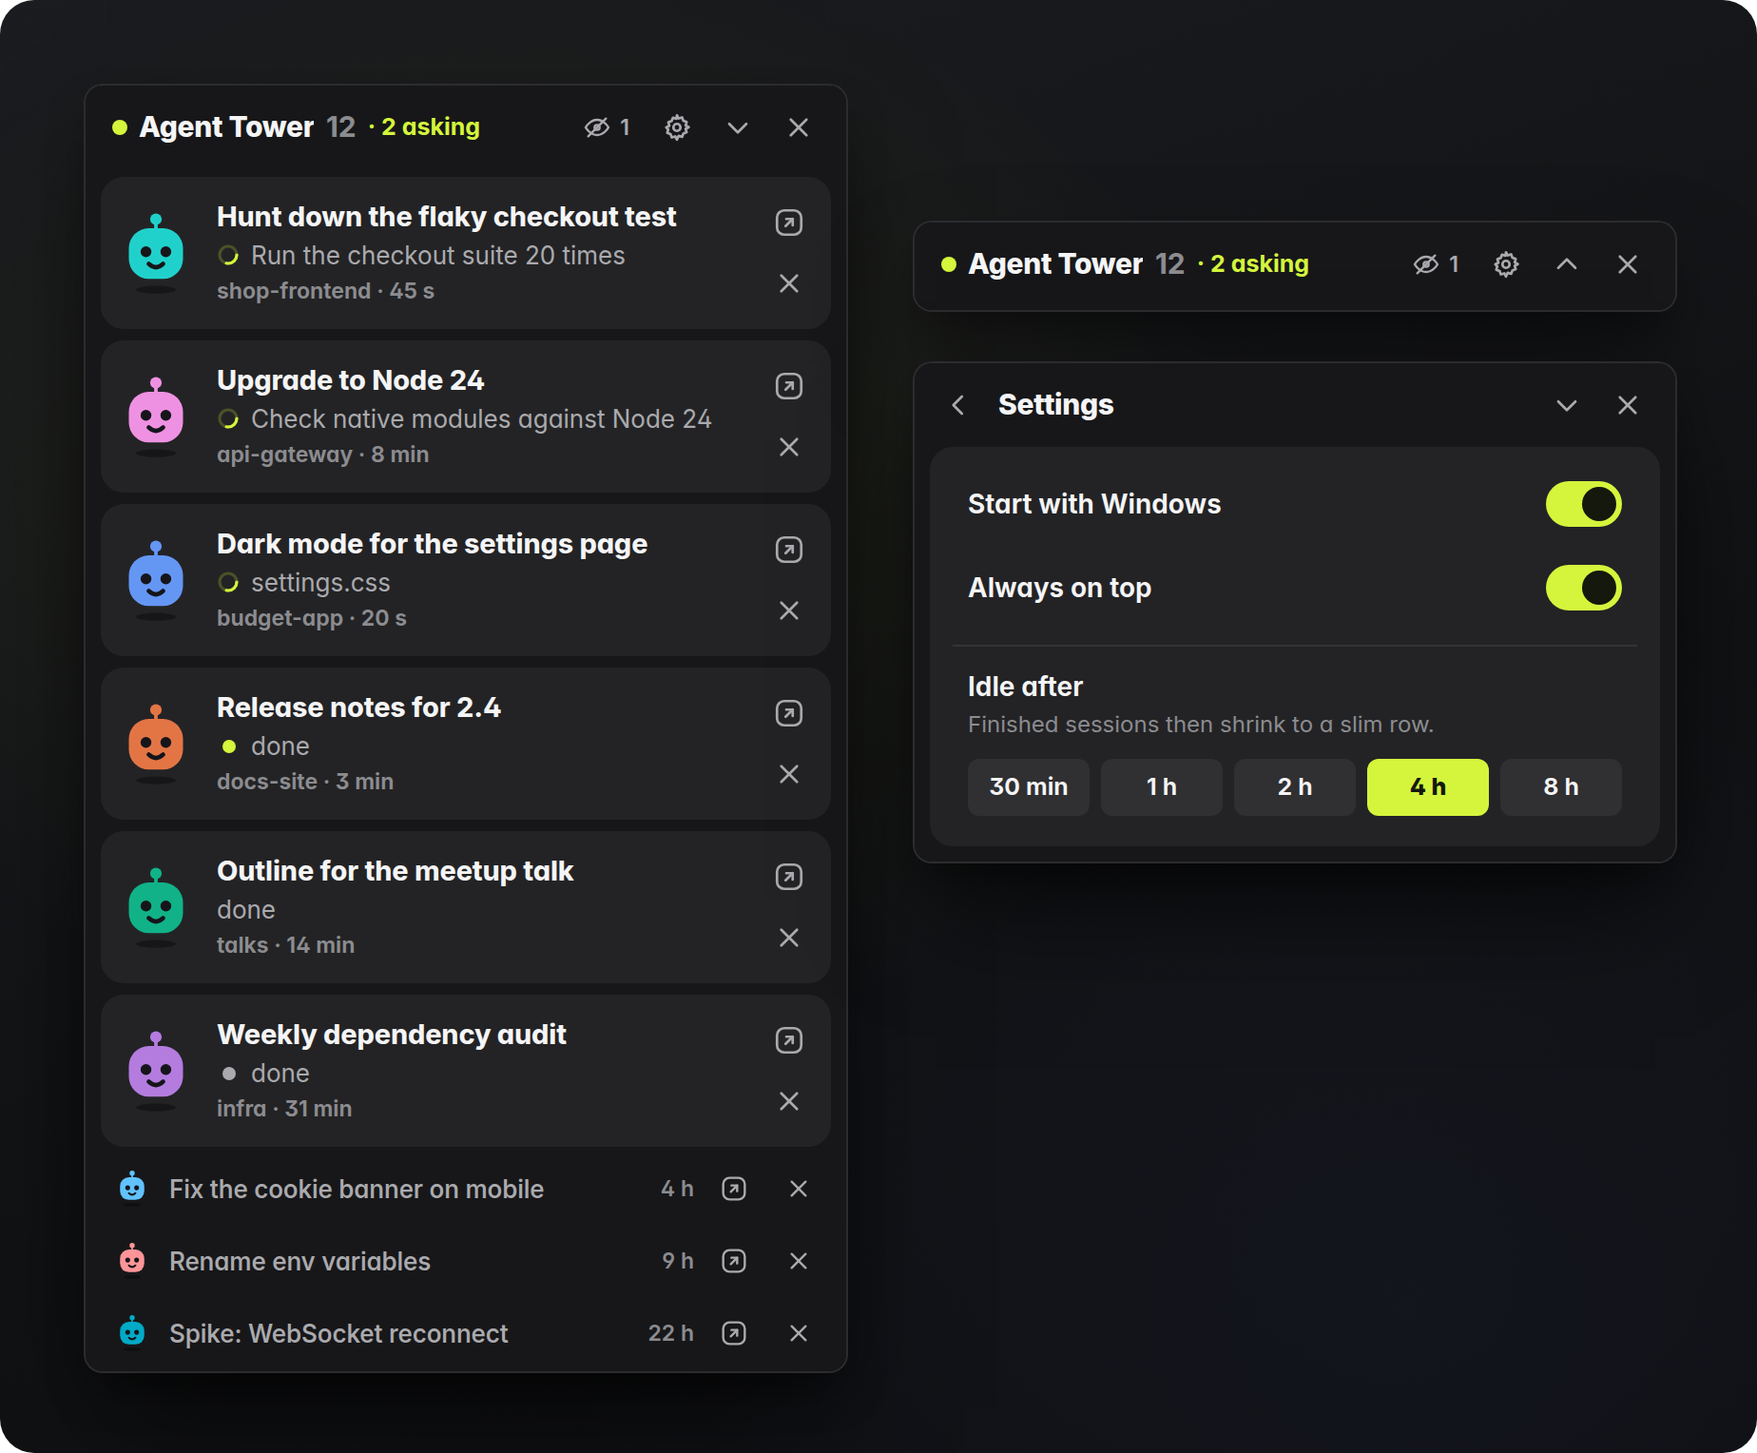
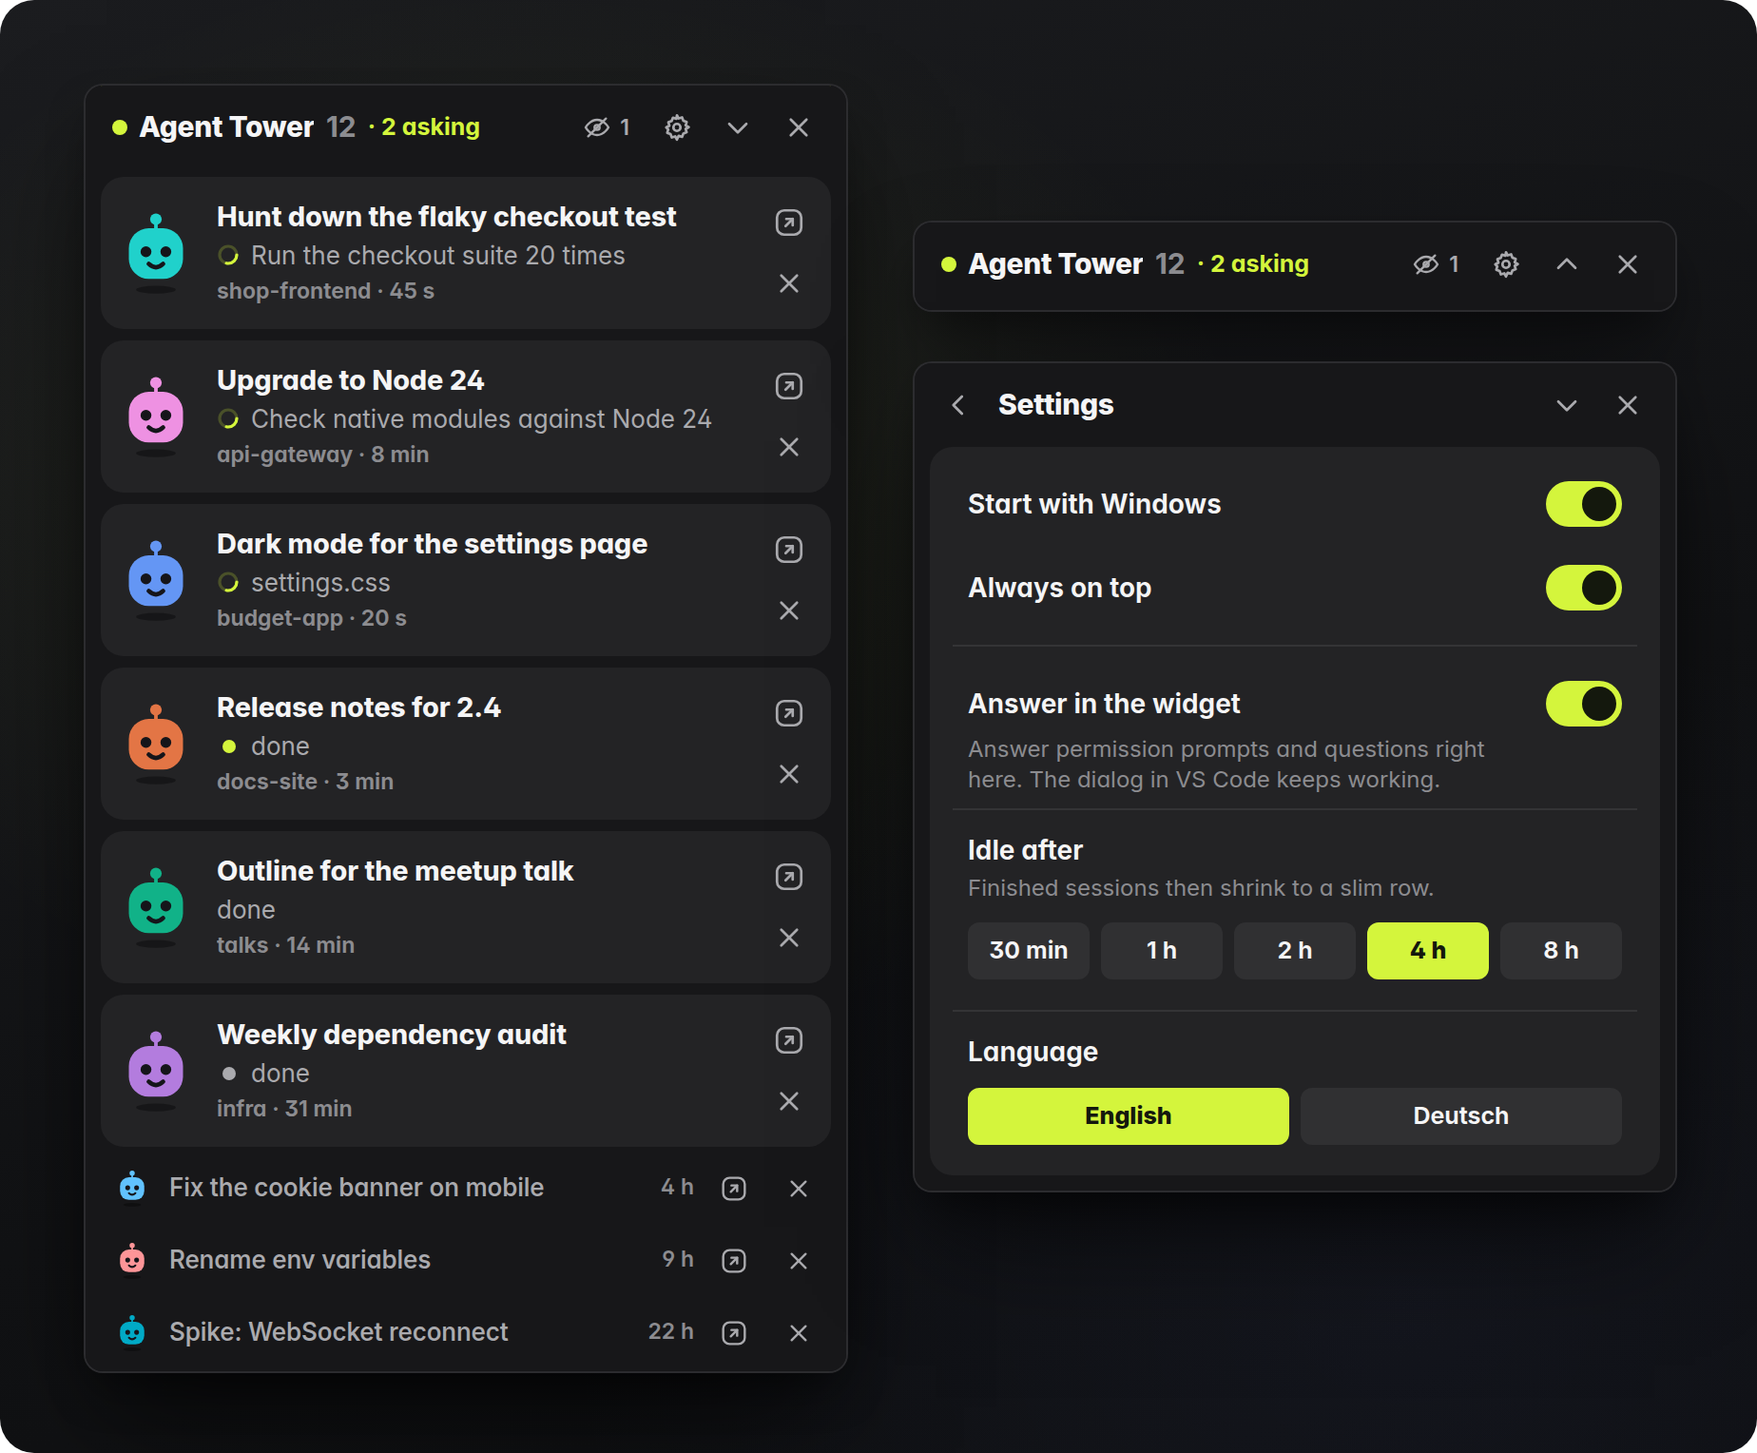
docs: README for answering in the widget, with new screenshots
The README now walks through the widget as it is used today: see who asks, answer a permission prompt or a question on the card, or jump to the session when it needs more than a yes. Installing the hook is part of the install steps, the requirements name the Claude Code version it was tested with, and the paths table lists the hook entry itself. The screenshots show the answer buttons with a picked option and the settings with the new switch; the demo fixture holds the made-up requests they need.

diff --git a/README.md b/README.md
@@ -1,8 +1,8 @@
 # Agent Tower
 
-A Claude Code session that waits for your answer does nothing until you look. Agent Tower keeps those sessions in view. It is a small window in the corner of your Windows desktop that lists every running session, puts the ones that need you on top and opens the right VS Code tab with one click. With its hook installed you can also answer a permission prompt or a question right in that window.
+A Claude Code session that waits for your answer does nothing until you look. Agent Tower keeps those sessions in view. It is a small window in the corner of your Windows desktop that lists every running session and puts the ones that need you on top. From there you answer a permission prompt or a question on the spot, or open the right VS Code tab with one click.
 
-![Agent Tower: two sessions asking for you at the top of the list, one waiting for permission to push and one with a question about a CSV export; next to it the detail view of a session that runs a test suite](docs/img/hero.png)
+![Agent Tower: two sessions asking for you at the top of the list, one waiting for permission to push with Allow and Deny under the command, one with a question about a CSV export whose second option is picked; next to it the detail view of a session that runs a test suite](docs/img/hero.png)
 
 *The screenshots show made-up demo sessions.*
 
@@ -16,21 +16,21 @@ Meanwhile those agents sit idle, and the work they would do next waits for a sin
 
 Sessions that wait for a permission, an answer or a plan approval get a lime frame and move to the top. The header counts them ("2 asking") and keeps counting when you fold the window down to that one line. A permission prompt raised by a subagent shows up on its parent's row, because that is where you answer it.
 
-The card tells you what the session wants before you switch: the command it wants to run, or the question with its options. Often that is enough to know whether it takes two seconds or real thought. A click on the row opens the session's latest steps and the last terminal command with its output, and the coloured faces at the top switch between sessions.
+The card shows what the session wants: the full command it is about to run, or the question with its options. Allow and Deny sit right under the command; a question takes your pick and a click on Send. The dialog in VS Code stays open next to it, and whichever of the two you use first settles the request. This needs the answer hook, which you add once with a script (see "Answering from the widget" below). Without it the card shows the request and leaves the answer to VS Code.
 
-The arrow takes you there. For a session in VS Code it brings that window and tab to the front; a session in the Claude desktop app opens in the app. When the target is unclear, for example because no VS Code window shows the session's folder, the row says so instead of guessing.
+Some requests need more than a yes or a no, and for those the arrow takes you to the session. For a session in VS Code it brings that window and tab to the front; a session in the Claude desktop app opens in the app. When the target is unclear, for example because no VS Code window shows the session's folder, the row says so instead of guessing.
 
-Once the answer hook is installed, the card of a VS Code session in WSL takes the answer as well: Allow and Deny under the full command, or the options of a question with a Send button. The dialog in VS Code stays open next to it, and whichever of the two you use first settles the request. "Answering from the widget" below describes the setup.
+A click on a row opens the session's last 30 steps and the last terminal command with its output. Hovering over a step's mark or icon says what it stands for. The coloured faces at the top switch between sessions.
 
-![The rest of the list: working sessions with their current step, finished ones with a dot that stays lime while unread, older ones as slim lines; next to it the folded header and the settings](docs/img/rows.png)
+![The rest of the list: working sessions with their current step, finished ones with a dot that stays lime while unread, older ones as slim lines; next to it the folded header and the settings, with the switch for answering in the widget](docs/img/rows.png)
 
 Everything else stays quiet. A working session shows the step it is on. A finished one in VS Code shows a lime dot until you have read it there, then a grey one. After four hours a finished session shrinks to a single line; the settings offer 30 minutes up to 8 hours. The X hides a row until its state changes. The list updates every second.
 
 ## What it leaves alone
 
-Out of the box Agent Tower only reads. It writes nothing into Claude Code's folders and has no button that ends a session or a process. Its state (hidden rows and your settings) lives in a folder of its own, and the daemon listens on `127.0.0.1` only. Quit it and nothing changes for your sessions; they never knew it was there.
+Without the answer hook Agent Tower only reads. It writes nothing into Claude Code's folders and has no button that ends a session or a process. Its state (hidden rows and your settings) lives in a folder of its own, and the daemon listens on `127.0.0.1` only. Quit it and nothing changes for your sessions; they never knew it was there.
 
-Answering is the one exception, and you switch it on yourself: a script adds a single hook entry to Claude Code's settings and takes it out again. The daemon still decides nothing. A request is allowed or denied by your click on it and by nothing else, and while the daemon is not running, sessions behave as they do without the hook.
+The hook is the one exception, and you add it yourself: a script puts a single entry into Claude Code's settings and takes it out again. Even then the daemon decides nothing on its own. A request is allowed or denied by your click on that request, and by no rule, default or timeout. While the daemon is not running, sessions behave as they do without the hook. The log notes each answered request with its tool and outcome, never the command or the question.
 
 It also does not pretend. A long-running command can look like a permission prompt, so when Agent Tower cannot prove that a session is asking, the row says "probably asking" behind a dashed frame instead of the lime one. A value it cannot know is shown as a dash, not as a plausible guess.
 
@@ -38,9 +38,9 @@ It also does not pretend. A long-running command can look like a permission prom
 
 Agent Tower is made for one setup: Windows 11 with Claude Code in WSL 2, used through the VS Code extension. Sessions of Claude Code on Windows itself, in VS Code or in the Claude desktop app, appear in the same list. Cloud sessions of the desktop app leave no trace on the machine and are missing. macOS and Linux desktops are not supported.
 
-Answering works for sessions of the VS Code extension in WSL. Sessions on Windows, in the desktop app or in a terminal are listed and opened as described above, and answered where they run.
+Answering in the widget works for sessions of the VS Code extension in WSL. Sessions on Windows, in the desktop app or in a terminal are listed and opened as described above, and answered where they run.
 
-There are two programs. A daemon in WSL (`src/`, Node without packages) reads Claude Code's session registry and transcripts and serves the widget page from `public/` on `http://127.0.0.1:4188`. The Windows shell (`shell/`, WPF with WebView2) shows that page in a frameless window with a tray icon, and starts the daemon when it does not answer.
+There are two programs. A daemon in WSL (`src/`, Node without packages) reads Claude Code's session registry and transcripts, holds the requests that come in through the hook, and serves the widget page from `public/` on `http://127.0.0.1:4188`. The Windows shell (`shell/`, WPF with WebView2) shows that page in a frameless window with a tray icon, and starts the daemon when it does not answer.
 
 If you would rather have a map than a list, with the Git state of every repository and a 3D view, look at the playful sibling [Agent Colony](https://github.com/aploe/agent-colony). Agent Tower reuses its session logic and leaves out everything you would have to explore.
 
@@ -49,6 +49,7 @@ If you would rather have a map than a list, with the Git state of every reposito
 - WSL 2 with Node 22.13 or newer (the read marks taken from VS Code need the built-in `node:sqlite`; with an older Node they stay unknown). The scripts look for the nvm version named in `.nvmrc` first, then for `node` on the `PATH`.
 - On Windows the .NET 10 SDK and the WebView2 runtime, which Windows 11 brings along.
 - For the arrow: VS Code with the Claude Code extension, and `wslview` in WSL (package `wslu`).
+- For answering in the widget: a Claude Code version whose hooks can be of type `http`. Tested with version 2.1.326 of the VS Code extension.
 
 ## Install
 
@@ -60,7 +61,31 @@ Run this in WSL:
 
 It publishes the shell to `%LOCALAPPDATA%\AgentTower\app\`, writes `settings.json` one folder up if there is none yet, and puts "Agent Tower" into the Start Menu. With `--test` it runs the shell's unit tests first. The app has to be closed while it is rebuilt (tray icon, "Quit"); the script says so when the exe is still in use.
 
-Start the app from the Start Menu. It checks whether the daemon answers and starts it if not. The header's X hides the window, a left click on the tray icon brings it back. The gear in the header opens the settings: start with Windows, always on top, whether requests can be answered in the widget, after how long a finished session moves to the slim rows, and the language (English or German).
+Start the app from the Start Menu. It checks whether the daemon answers and starts it if not. The header's X hides the window, a left click on the tray icon brings it back. The gear in the header opens the settings: start with Windows, always on top, answering in the widget, after how long a finished session moves to the slim rows, and the language (English or German).
+
+To answer in the widget, add the hook once:
+
+```
+node scripts/answer-hook.mjs install
+```
+
+The next section says what that changes and how to take it out again.
+
+## Answering from the widget
+
+Claude Code can hand each permission request to a hook before it asks you. Agent Tower's hook sends the request to the daemon, which holds it until you answer, in the widget or in VS Code.
+
+`install` adds one entry under `hooks.PermissionRequest` in `~/.claude/settings.json` and leaves every other hook where it is. Before it writes, it copies the file to `~/.local/state/agent-tower/backups/`. `install --dry-run` prints the change without making it, `status` says whether the hook is in the file and whether the daemon answers, and `uninstall` takes the entry out again. Sessions that are already running use the hook from their next request on; nothing needs a restart.
+
+A permission prompt comes with the whole command, or the file path for an edit, and the buttons Allow and Deny. Deny stops the session the way "No" does in VS Code. A question comes with its options, also when one call asks several questions or allows more than one choice. A request raised by a subagent says so above its block. Answer in VS Code instead, and the buttons in the widget disappear a few seconds later.
+
+Some answers stay in VS Code: "always allow", a denial with a reason, a typed answer to a question, plan approvals, and anything you want to read as a diff first. A request whose text is longer than 4000 characters is not offered in the widget either, because it would have to be cut.
+
+A stray click must not run a command, and the widget is built around that. The command is shown in full and scrolls inside its box when it is long. The buttons ignore clicks for half a second after they appeared or moved, so a click that was already on its way lands on nothing, and they are off while the daemon cannot be reached. Without your click a request waits. After twelve hours the hook gives up and the request is left to VS Code.
+
+Nothing depends on the daemon being there. While it is stopped, Claude Code gets no answer from the hook and shows its dialog as usual. Runs without a dialog, such as `claude -p`, are handed back within a few seconds. For a break from the buttons, switch off "Answer in the widget" in the settings: every request then passes through, and the hook stays where it is.
+
+The hook points at the daemon's port. After changing the port, run `install` again; it replaces the old entry. A daemon from before this feature answers the hook with an error that Claude Code ignores, so restart the daemon after an update (tray icon, "Restart daemon") to get the buttons.
 
 ## The daemon by hand
 
@@ -70,26 +95,6 @@ Start the app from the Start Menu. It checks whether the daemon answers and star
 ```
 
 The daemon writes its log to `/tmp/agent-tower.log`, and the page opens in any browser at `http://127.0.0.1:4188/`. Quitting the app leaves the daemon running. For another port set `"port"` in the shell's `settings.json`; the shell hands it to the start script. Started by hand, the script takes the port from `TOWER_PORT` or from the config file.
-
-## Answering from the widget
-
-Claude Code can hand each permission request to a hook before it asks you. Agent Tower's hook sends the request to the daemon, which keeps it until you answer in the widget. Install it with
-
-```
-node scripts/answer-hook.mjs install
-```
-
-The script adds one entry under `hooks.PermissionRequest` in `~/.claude/settings.json` and leaves every other hook where it is. Before it writes, it copies the file to `~/.local/state/agent-tower/backups/`. `install --dry-run` prints the change without making it, `status` says whether the hook is in the file and whether the daemon answers, and `uninstall` takes the entry out again. Sessions that are already running use the hook from their next request on.
-
-From then on a waiting VS Code session in WSL shows its request in the widget. A permission prompt comes with the whole command, or the file path for an edit, and the buttons Allow and Deny; Deny stops the session the way "No" does in VS Code. A question comes with its options, also when one call asks several questions or allows more than one choice. Prompts raised by subagents are included. The dialog in VS Code keeps working the whole time. Answer there and the buttons in the widget disappear a few seconds later.
-
-Some answers stay in VS Code: "always allow", a denial with a reason, a typed answer to a question, plan approvals, and anything you want to read as a diff first. A request whose text is longer than 4000 characters is not offered in the widget either, because it would have to be cut.
-
-The widget is built so that a stray click does not run a command. The command is shown in full, scrolling inside its box when it is long, and the buttons ignore clicks for half a second after they appeared or moved. The daemon never decides on its own. Without your click a request waits; the hook is set to twelve hours, after which the request is left to VS Code.
-
-Nothing depends on the daemon being there. While it is stopped, Claude Code gets no answer from the hook and shows its dialog as usual. Runs without a dialog, such as `claude -p`, are handed back within a few seconds. If you only want a break from the buttons, the settings have the switch "Answer in the widget", which passes every request through without touching the hook.
-
-The hook points at the daemon's port. After changing the port, run `install` again; it replaces the old entry. A daemon from before this feature answers the hook with an error that Claude Code ignores, so restart the daemon after an update to get the buttons.
 
 ## Where things live
 
@@ -101,15 +106,16 @@ The hook points at the daemon's port. After changing the port, run `install` aga
 | Hidden rows | `~/.local/state/agent-tower/dismissed.json`, or under `$XDG_STATE_HOME` if that is set |
 | Daemon config | `config/tower.config.json`, with overrides for this machine in `config/tower.local.json` |
 | Daemon settings changed in the widget | `~/.local/state/agent-tower/settings.json`; they override both config files |
-| Copies of Claude Code's `settings.json`, one before each change by `answer-hook.mjs` | `~/.local/state/agent-tower/backups/` |
+| The answer hook | one entry under `hooks.PermissionRequest` in `~/.claude/settings.json`, written only by `scripts/answer-hook.mjs` |
+| Copies of Claude Code's `settings.json`, one before each change by that script | `~/.local/state/agent-tower/backups/` |
 
 ## Checks
 
-`npm test` runs the daemon's and the page's unit tests. `node scripts/check-live.mjs` compares the daemon's session list with `claude agents --json`, and `node src/collect.mjs --explain <session-id-prefix>` prints why a row has its state. `node scripts/shot.mjs out.png` takes a screenshot of the page; `--fixture all-states` shows every kind of row without live sessions, and `--fixture demo` shows the made-up sessions from the screenshots above.
+`npm test` runs the daemon's and the page's unit tests. `node scripts/check-live.mjs` compares the daemon's session list with `claude agents --json`, and `node src/collect.mjs --explain <session-id-prefix>` prints why a row has its state. `node scripts/answer-hook.mjs status` tells whether the hook is installed and the daemon answers. `node scripts/shot.mjs out.png` takes a screenshot of the page; `--fixture all-states` shows every kind of row without live sessions, and `--fixture demo` shows the made-up sessions from the screenshots above.
 
 ## Uninstall
 
-If you installed the answer hook, take it out first with `node scripts/answer-hook.mjs uninstall`. Switch off "Start with Windows" in the widget's settings, or delete the value `AgentTower` under `HKCU\Software\Microsoft\Windows\CurrentVersion\Run` by hand. Quit the app and run `./scripts/stop-server.sh`. Then delete the folder `%LOCALAPPDATA%\AgentTower`, the shortcut `Agent Tower.lnk` in `%APPDATA%\Microsoft\Windows\Start Menu\Programs\`, and `~/.local/state/agent-tower` in WSL.
+If you installed the answer hook, take it out first with `node scripts/answer-hook.mjs uninstall`. Switch off "Start with Windows" in the widget's settings, or delete the value `AgentTower` under `HKCU\Software\Microsoft\Windows\CurrentVersion\Run` by hand. Quit the app and run `./scripts/stop-server.sh`. Then delete the folder `%LOCALAPPDATA%\AgentTower`, the shortcut `Agent Tower.lnk` in `%APPDATA%\Microsoft\Windows\Start Menu\Programs\`, and `~/.local/state/agent-tower` in WSL (it holds the backups of Claude Code's settings too).
 
 ## Credits
 
